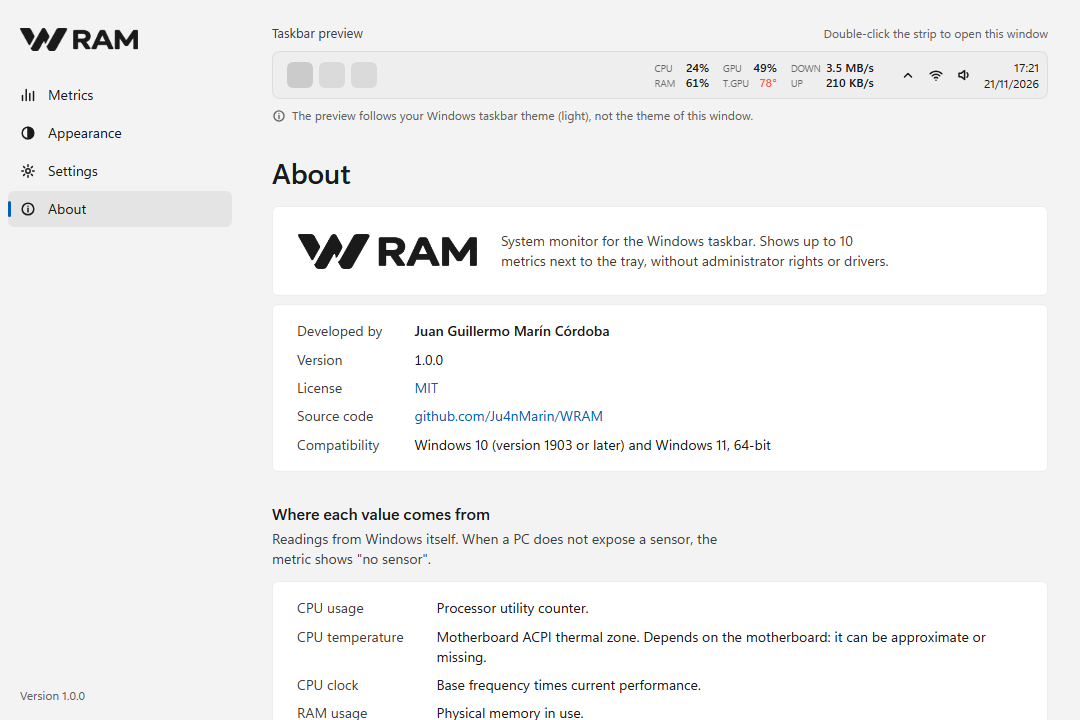
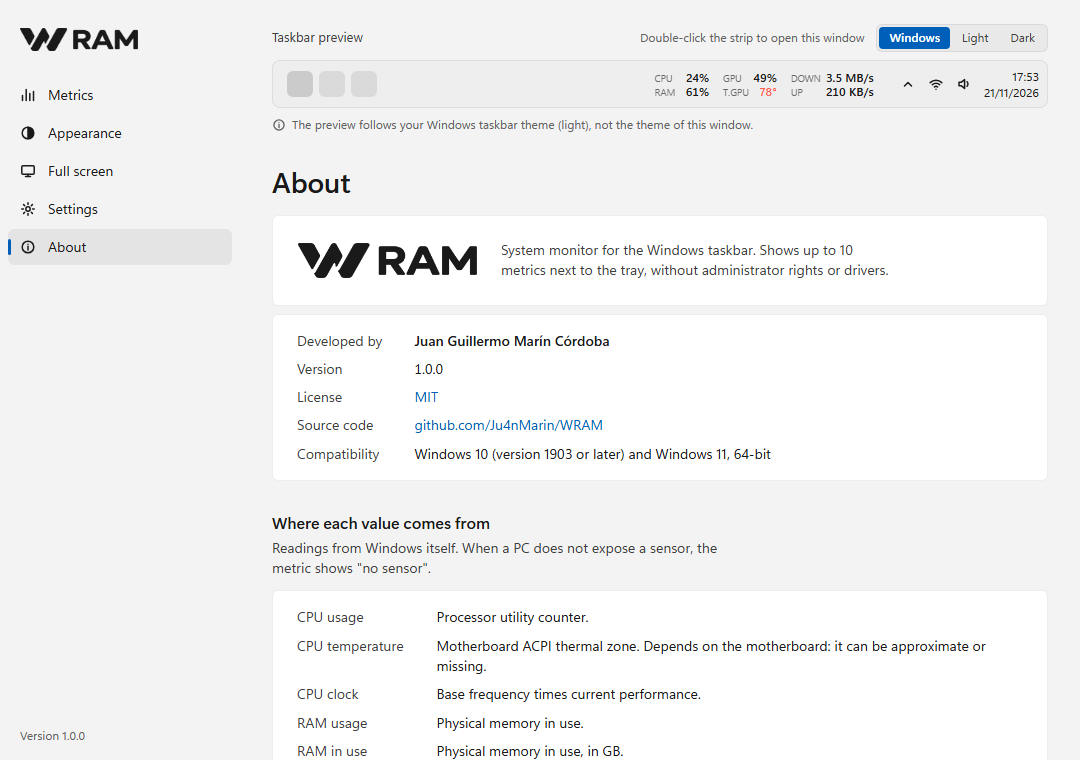
docs(repo): pantalla completa, selector de barra, atestación y metadatos del ejecutable

diff --git a/docs/es/uso.md b/docs/es/uso.md
@@ -13,7 +13,7 @@ La franja se ubica a la izquierda de la bandeja del sistema, en la barra de tare
 
 Los valores usan blanco o negro según el tema de la barra de tareas, y el separador decimal de tu configuración regional. Una métrica sin sensor en el equipo muestra un guion.
 
-La vista previa de la ventana de configuración reproduce la barra con el tema de la barra de tareas de Windows, que puede ser distinto del tema elegido para la ventana. Lo indica la nota debajo de la vista previa.
+La vista previa de la ventana de configuración reproduce la barra con el tema de la barra de tareas de Windows, que puede ser distinto del tema elegido para la ventana. Lo indica la nota debajo de la vista previa. El selector Windows / Clara / Oscura junto a la vista previa muestra la franja sobre una barra clara u oscura para comparar; no cambia ningún ajuste.
 
 ## Ventana de configuración
 
@@ -41,6 +41,20 @@ La vista previa de la ventana de configuración reproduce la barra con el tema d
 | Color de aviso | Rojo, amarillo, magenta, azul u otro color |
 | Distancia a la bandeja | 0 a 600 px |
 
+### Pantalla completa
+
+![Pantalla completa](../img/pantalla-completa-oscuro.png)
+
+Qué hace la franja cuando un juego, un video o una presentación ocupa toda la pantalla. Reacciona en el acto al entrar y al salir, también con F11 en el navegador.
+
+| Comportamiento | Resultado |
+|---|---|
+| Ocultar | La franja desaparece y vuelve al salir de pantalla completa |
+| Mover | La franja flota en el recuadro elegido de la pantalla, con un fondo oscuro translúcido |
+| Dejar igual | La franja se queda en su lugar de la barra, encima de la imagen |
+
+Con Mover, el monitor de ejemplo tiene 8 recuadros (esquinas, centros de los bordes superior e inferior y centros laterales); se elige con un clic. Los juegos en pantalla completa exclusiva no permiten otras ventanas encima, así que ahí la franja siempre se oculta.
+
 ### Configuración
 
 ![Configuración](../img/configuracion-claro.png)
@@ -50,7 +64,6 @@ La vista previa de la ventana de configuración reproduce la barra con el tema d
 | Idioma | Sistema, español, inglés, portugués, francés o chino simplificado. Cambia la ventana, el menú y las etiquetas por defecto |
 | Tema de la aplicación | Sistema, claro u oscuro. Solo afecta a esta ventana; la franja y la vista previa siguen el tema de la barra de tareas de Windows |
 | Iniciar con Windows | Registro en `HKCU\...\Run`, sin administrador |
-| Ocultar en pantalla completa | Oculta la franja al instante con juegos, videos, presentaciones o F11 |
 | Frecuencia de actualización | 0,5, 1, 2 o 5 segundos |
 | Archivo de configuración | Ruta de `config.ini` y botón para abrir su carpeta |
 | Restablecer | Vuelve a las seis métricas iniciales, con confirmación |
@@ -73,7 +86,8 @@ valueColor=auto
 alertColor=#ff5a4e
 labels=1
 autostart=0
-hideFullscreen=1
+fullscreen=0
+overlayPos=2
 offset=8
 theme=0
 lang=0
@@ -86,6 +100,8 @@ lang=0
 5=netdown||0|0
 6=netup||0|0
 ```
+
+`theme`: 0 sistema, 1 claro, 2 oscuro. `lang`: 0 sistema, 1 español, 2 inglés, 3 portugués, 4 francés, 5 chino simplificado. `fullscreen`: 0 ocultar, 1 mover, 2 dejar igual. `overlayPos`: 0 arriba izquierda, 1 arriba centro, 2 arriba derecha, 3 centro izquierda, 4 centro derecha, 5 abajo izquierda, 6 abajo centro, 7 abajo derecha.
 
 Cada posición sigue el formato `clave|etiqueta|umbral|aviso`.
 

diff --git a/docs/usage.md b/docs/usage.md
@@ -13,7 +13,7 @@ The strip sits to the left of the system tray, on the main taskbar.
 
 Values are white or black to match the taskbar theme, and use the decimal separator of your regional settings. A metric without a sensor on the PC shows a dash.
 
-The preview at the top of the settings window reproduces the taskbar with the Windows taskbar theme, which can be different from the theme chosen for the window. The note below the preview says which one is in use.
+The preview at the top of the settings window reproduces the taskbar with the Windows taskbar theme, which can be different from the theme chosen for the window. The note below the preview says which one is in use. The Windows / Light / Dark selector next to the preview shows the strip on a light or dark taskbar for comparison; it does not change any setting.
 
 ## Settings window
 
@@ -41,6 +41,20 @@ The preview at the top of the settings window reproduces the taskbar with the Wi
 | Alert color | Red, yellow, magenta, blue or a custom color |
 | Distance from the tray | 0 to 600 px |
 
+### Full screen
+
+![Full screen](img/fullscreen-dark.png)
+
+What the strip does when a game, video or presentation takes the whole screen. It reacts instantly when entering and leaving full screen, including F11 in browsers.
+
+| Behavior | Result |
+|---|---|
+| Hide | The strip disappears and comes back when full screen ends |
+| Move | The strip floats in the chosen spot of the screen on a dark translucent backdrop |
+| Keep | The strip stays in its taskbar spot, on top of the image |
+
+With Move, the screen diagram has 8 spots (corners, edge centers and side centers); click one to choose it. Games in exclusive full screen do not allow other windows on top, so there the strip is always hidden.
+
 ### Settings
 
 ![Settings](img/settings-light.png)
@@ -50,7 +64,6 @@ The preview at the top of the settings window reproduces the taskbar with the Wi
 | Language | System, Spanish, English, Portuguese, French or Simplified Chinese. Changes the window, the menu and the default labels |
 | App theme | System, light or dark. Affects this window only; the strip and the preview follow the Windows taskbar theme |
 | Start with Windows | Entry in `HKCU\...\Run`, no administrator rights |
-| Hide in full screen | Hides the strip instantly with games, videos, presentations or F11 |
 | Refresh rate | 0.5, 1, 2 or 5 seconds |
 | Settings file | Path of `config.ini` and a button to open its folder |
 | Reset | Goes back to the six default metrics, after confirmation |
@@ -73,7 +86,8 @@ valueColor=auto
 alertColor=#ff5a4e
 labels=1
 autostart=0
-hideFullscreen=1
+fullscreen=0
+overlayPos=2
 offset=8
 theme=0
 lang=0
@@ -87,7 +101,7 @@ lang=0
 6=netup||0|0
 ```
 
-`theme`: 0 system, 1 light, 2 dark. `lang`: 0 system, 1 Spanish, 2 English, 3 Portuguese, 4 French, 5 Simplified Chinese.
+`theme`: 0 system, 1 light, 2 dark. `lang`: 0 system, 1 Spanish, 2 English, 3 Portuguese, 4 French, 5 Simplified Chinese. `fullscreen`: 0 hide, 1 move, 2 keep. `overlayPos`: 0 top left, 1 top center, 2 top right, 3 middle left, 4 middle right, 5 bottom left, 6 bottom center, 7 bottom right.
 
 Each position uses the format `key|label|threshold|alert`.
 

diff --git a/docs/es/seguridad.md b/docs/es/seguridad.md
@@ -36,7 +36,25 @@ La heap del proceso termina ante corrupción (`HeapEnableTerminationOnCorruption
 
 ## Integridad del ejecutable
 
-Cada versión publicada incluye el hash SHA-256 de `WRAM.exe`. Las propiedades del archivo muestran el autor, la versión y el copyright en los metadatos de versión.
+Las versiones las compila el workflow de CI a partir del commit etiquetado, no una máquina de desarrollo. Cada versión incluye:
+
+- El hash SHA-256 de `WRAM.exe`.
+- Una atestación de procedencia firmada con Sigstore a través de GitHub. Prueba que el archivo salió del workflow de este repositorio a partir de ese commit. Se verifica con GitHub CLI:
+
+  ```
+  gh attestation verify WRAM.exe --repo Ju4nMarin/WRAM
+  ```
+
+Las propiedades del archivo (pestaña Detalles) muestran los metadatos de versión:
+
+| Campo | Valor |
+|---|---|
+| Nombre del producto | WRAM |
+| Descripción | WRAM - monitor del sistema en la barra de tareas |
+| Compañía | Juan Guillermo Marín Córdoba |
+| Copyright | © 2026 Juan Guillermo Marín Córdoba. Licencia MIT. |
+| Comentarios | Desarrollado por Juan Guillermo Marín Córdoba. https://github.com/Ju4nMarin/WRAM |
+| Nombre original | WRAM.exe |
 
 ## Reporte de vulnerabilidades
 

diff --git a/docs/architecture.md b/docs/architecture.md
@@ -67,9 +67,9 @@ The timer is coalescable (`SetCoalescableTimer`), so Windows can batch wake-ups.
 - The background has alpha 1/255: invisible, but it still receives clicks.
 - It reserves the width of the widest value of each unit so the strip does not resize on every reading.
 - It is positioned with `Shell_TrayWnd` and `TrayNotifyWnd`, and follows the scale of the taskbar display (per-monitor DPI v2).
-- Full-screen hiding is event driven, without waiting for the timer:
+- Full-screen handling (hide, move to one of 8 screen spots on a translucent backdrop, or keep) is event driven, without waiting for the timer:
   - `EVENT_SYSTEM_FOREGROUND`: the active window changes.
-  - `EVENT_OBJECT_LOCATIONCHANGE` on the active window: F11 or a video going full screen without a focus change.
+  - `EVENT_OBJECT_LOCATIONCHANGE` limited to the thread of the active window and re-registered on every focus change: F11 or a video going full screen without a focus change.
   - The active window covers the taskbar monitor and is not a regular maximized window with a title bar. `SHQueryUserNotificationState` covers exclusive Direct3D games and presentations.
   - Measured: it hides in about 35 ms and comes back in about 30 ms.
 

diff --git a/docs/es/arquitectura.md b/docs/es/arquitectura.md
@@ -67,9 +67,9 @@ El temporizador es coalescente (`SetCoalescableTimer`), así Windows puede agrup
 - El fondo tiene alfa 1/255: es invisible pero recibe clics.
 - Reserva el ancho del valor más largo de cada unidad para que la franja no cambie de tamaño con cada lectura.
 - Se ubica con `Shell_TrayWnd` y `TrayNotifyWnd`, y sigue la escala de la pantalla de la barra (DPI por monitor v2).
-- Ocultado en pantalla completa por eventos, sin esperar al temporizador:
+- Pantalla completa (ocultar, mover a uno de 8 recuadros sobre un fondo translúcido o dejar igual) por eventos, sin esperar al temporizador:
   - `EVENT_SYSTEM_FOREGROUND`: cambio de ventana activa.
-  - `EVENT_OBJECT_LOCATIONCHANGE` de la ventana activa: F11 o un video que pasa a pantalla completa sin cambiar el foco.
+  - `EVENT_OBJECT_LOCATIONCHANGE` limitado al hilo de la ventana activa y registrado de nuevo en cada cambio de foco: F11 o un video que pasa a pantalla completa sin cambiar el foco.
   - Una ventana activa cubre el monitor de la barra y no es una ventana maximizada con título. Se suma `SHQueryUserNotificationState` para juegos Direct3D exclusivos y presentaciones.
   - Medido: se oculta en unos 35 ms y reaparece en unos 30 ms.
 

diff --git a/README.es.md b/README.es.md
@@ -30,7 +30,7 @@ WRAM dibuja una franja de texto a la izquierda de la bandeja del sistema con las
 
 - 14 métricas disponibles, hasta 10 a la vez, en una o dos filas.
 - Umbral de aviso por métrica: el valor cambia de color al cruzarlo.
-- Se oculta en el acto con juegos, videos o presentaciones en pantalla completa y vuelve al salir.
+- En pantalla completa se oculta, flota en el recuadro de pantalla que elijas o se queda en su sitio, y reacciona en el acto al entrar y al salir.
 - Interfaz en español, inglés, portugués, francés y chino simplificado.
 - Sin permisos de administrador, sin drivers y sin runtime: un solo `WRAM.exe`.
 - En reposo usa cerca de 9 MB de memoria y 0,2 % de un núcleo de CPU.
@@ -39,9 +39,9 @@ WRAM dibuja una franja de texto a la izquierda de la bandeja del sistema con las
 
 ![Métricas en tema claro](docs/img/metricas-claro.png)
 
-| Configuración | Acerca de |
+| Pantalla completa | Configuración |
 |---|---|
-| ![Configuración](docs/img/configuracion-claro.png) | ![Acerca de](docs/img/acerca-claro.png) |
+| ![Pantalla completa](docs/img/pantalla-completa-oscuro.png) | ![Configuración](docs/img/configuracion-claro.png) |
 
 ## Métricas
 

diff --git a/docs/security.md b/docs/security.md
@@ -36,7 +36,25 @@ The process heap terminates on corruption (`HeapEnableTerminationOnCorruption`) 
 
 ## Executable integrity
 
-Each release includes the SHA-256 hash of `WRAM.exe`. The file properties show the author, version and copyright in the version metadata.
+Releases are built by the CI workflow from the tagged commit, not on a developer machine. Each release includes:
+
+- The SHA-256 hash of `WRAM.exe`.
+- A build provenance attestation signed with Sigstore through GitHub. It proves the file was produced by this repository's workflow from that commit. Verify it with the GitHub CLI:
+
+  ```
+  gh attestation verify WRAM.exe --repo Ju4nMarin/WRAM
+  ```
+
+The file properties (Details tab) show the version metadata:
+
+| Field | Value |
+|---|---|
+| Product name | WRAM |
+| File description | WRAM - monitor del sistema en la barra de tareas |
+| Company | Juan Guillermo Marín Córdoba |
+| Copyright | © 2026 Juan Guillermo Marín Córdoba. Licencia MIT. |
+| Comments | Desarrollado por Juan Guillermo Marín Córdoba. https://github.com/Ju4nMarin/WRAM |
+| Original file name | WRAM.exe |
 
 ## Reporting a vulnerability
 

diff --git a/README.md b/README.md
@@ -30,7 +30,7 @@ WRAM draws a text strip to the left of the system tray with the metrics you choo
 
 - 14 metrics available, up to 10 at a time, in one or two rows.
 - Per-metric alert threshold: the value changes color when it crosses it.
-- Hides instantly when a game, video or presentation goes full screen, and comes back when it exits.
+- In full screen it hides, floats in a spot you pick on the screen, or stays put, and reacts instantly when entering and leaving.
 - Interface in Spanish, English, Portuguese, French and Simplified Chinese.
 - No administrator rights, no drivers, no runtime: a single `WRAM.exe`.
 - At idle it uses about 9 MB of memory and 0.2% of one CPU core.
@@ -39,9 +39,9 @@ WRAM draws a text strip to the left of the system tray with the metrics you choo
 
 ![Metrics, light theme](docs/img/metrics-light.png)
 
-| Settings | About |
+| Full screen | Settings |
 |---|---|
-| ![Settings](docs/img/settings-light.png) | ![About](docs/img/about-light.png) |
+| ![Full screen](docs/img/fullscreen-dark.png) | ![Settings](docs/img/settings-light.png) |
 
 ## Metrics
 

diff --git a/CHANGELOG.md b/CHANGELOG.md
@@ -11,7 +11,9 @@ Format based on [Keep a Changelog](https://keepachangelog.com/en/1.1.0/) and sem
 - Per-metric alert threshold that changes the value color.
 - Settings window with Metrics, Appearance, Settings and About sections, in light, dark or system theme.
 - Interface in Spanish, English, Portuguese, French and Simplified Chinese.
-- Instant hiding in full screen, including F11 and videos.
+- Full-screen behavior: hide, move to one of 8 screen spots, or keep. Reacts instantly, including F11 and videos.
+- Taskbar preview with a light or dark taskbar selector.
+- Release builds from CI with a Sigstore build provenance attestation.
 - Startup with Windows without administrator rights.
 - Decimal separator from the regional settings.
 - Core tests with JUnit report and CI workflow.

diff --git a/docs/es/instalacion.md b/docs/es/instalacion.md
@@ -38,6 +38,12 @@ Para comprobar que el archivo es el publicado, compara su hash con el que figura
 Get-FileHash .\WRAM.exe -Algorithm SHA256
 ```
 
+Con GitHub CLI también se puede verificar que lo compiló el CI de este repositorio:
+
+```
+gh attestation verify WRAM.exe --repo Ju4nMarin/WRAM
+```
+
 ## Iniciar con Windows
 
 En la configuración, sección Configuración, activa "Iniciar con Windows". Se registra en `HKCU\Software\Microsoft\Windows\CurrentVersion\Run` solo para tu usuario.

diff --git a/docs/installation.md b/docs/installation.md
@@ -38,6 +38,12 @@ To check that the file is the published one, compare its hash with the one on th
 Get-FileHash .\WRAM.exe -Algorithm SHA256
 ```
 
+With the GitHub CLI you can also verify that it was built by this repository's CI:
+
+```
+gh attestation verify WRAM.exe --repo Ju4nMarin/WRAM
+```
+
 ## Start with Windows
 
 In the settings window, Settings section, turn on "Start with Windows". It is registered under `HKCU\Software\Microsoft\Windows\CurrentVersion\Run` for your user only.
